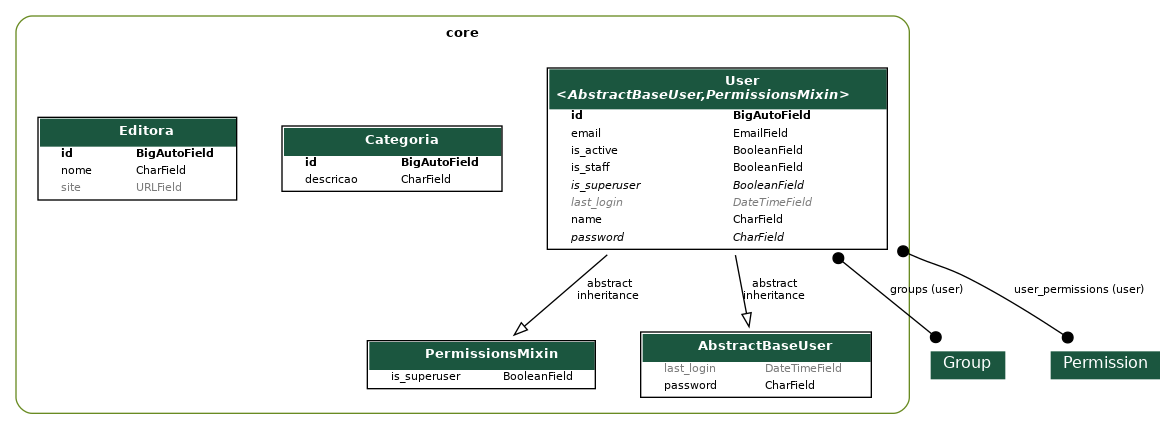
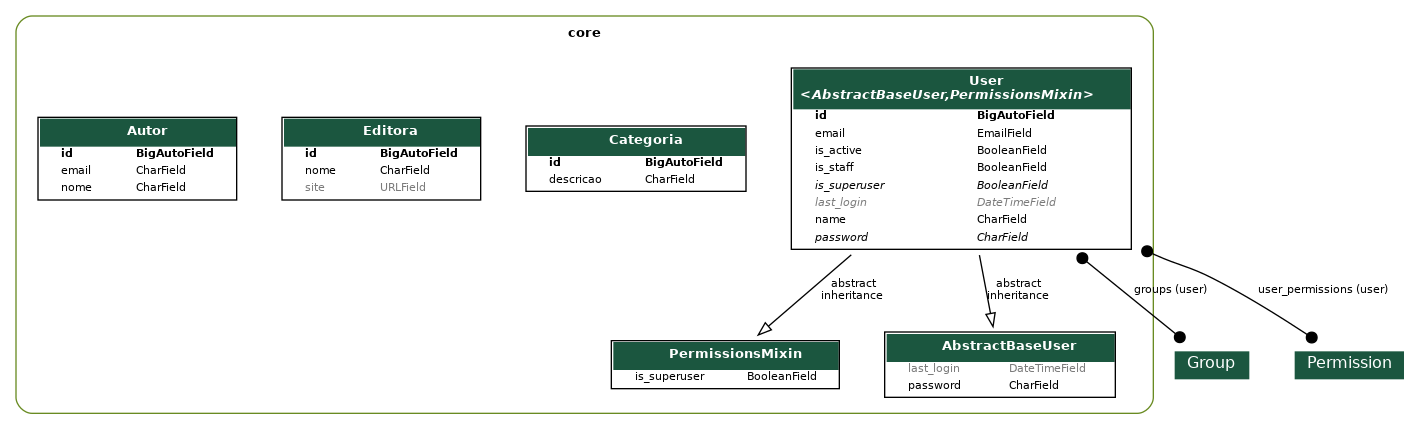
criação api do autor

diff --git a/app/urls.py b/app/urls.py
@@ -9,12 +9,14 @@ from drf_spectacular.views import (
 from rest_framework.routers import DefaultRouter
 from rest_framework_simplejwt.views import TokenObtainPairView, TokenRefreshView
 
-from core.views import CategoriaViewSet, EditoraViewSet, UserViewSet
+from core.views import CategoriaViewSet, EditoraViewSet, UserViewSet, AutorViewSet
 
 router = DefaultRouter()
 router.register(r"categorias", CategoriaViewSet, basename="categorias")
 router.register(r"editoras", EditoraViewSet, basename="users")
 router.register(r"usuarios", UserViewSet, basename="users")
+router.register(r"autor", AutorViewSet, basename="users")
+
 
 urlpatterns = [
     path("admin/", admin.site.urls),

diff --git a/core/migrations/0005_autor.py b/core/migrations/0005_autor.py
@@ -1,0 +1,21 @@
+# Generated by Django 5.0.2 on 2024-03-18 14:33
+
+from django.db import migrations, models
+
+
+class Migration(migrations.Migration):
+
+    dependencies = [
+        ("core", "0004_rename_url_editora_site"),
+    ]
+
+    operations = [
+        migrations.CreateModel(
+            name="Autor",
+            fields=[
+                ("id", models.BigAutoField(auto_created=True, primary_key=True, serialize=False, verbose_name="ID")),
+                ("nome", models.CharField(max_length=100)),
+                ("email", models.CharField(max_length=100)),
+            ],
+        ),
+    ]

diff --git a/core/views/autor.py b/core/views/autor.py
@@ -1,0 +1,9 @@
+from rest_framework.viewsets import ModelViewSet
+
+from core.models import Autor
+from core.serializers import AutorSerializer
+
+
+class AutorViewSet(ModelViewSet):
+    queryset = Autor.objects.all()
+    serializers_class = AutorSerializer

diff --git a/core/models/autor.py b/core/models/autor.py
@@ -1,0 +1,9 @@
+from django.db import models
+
+
+class Autor(models.Model):
+    nome = models.CharField(max_length=100)
+    email = models.CharField(max_length=100)
+
+    def __str__(self):
+        return f"{self.nome} ({self.id})"

diff --git a/core/serializers/autor.py b/core/serializers/autor.py
@@ -1,0 +1,9 @@
+from rest_framework.serializers import ModelSerializer
+
+from core.models import Autor
+
+
+class AutorSerializer(ModelSerializer):
+    class Meta:
+        model = Autor
+        fields = "__all__"

diff --git a/core/admin.py b/core/admin.py
@@ -52,3 +52,4 @@ class UserAdmin(BaseUserAdmin):
 admin.site.register(models.User, UserAdmin)
 admin.site.register(models.Categoria)
 admin.site.register(models.Editora)
+admin.site.register(models.Autor)

diff --git a/core/serializers/__init__.py b/core/serializers/__init__.py
@@ -3,3 +3,5 @@ from .user import UserSerializer
 from .categoria import CategoriaSerializer
 
 from .editora import EditoraSerializer
+
+from .autor import AutorSerializer

diff --git a/core/views/__init__.py b/core/views/__init__.py
@@ -1,3 +1,4 @@
 from .user import UserViewSet
 from .categoria import CategoriaViewSet
 from .editora import EditoraViewSet
+from .autor import AutorViewSet

diff --git a/core/models/__init__.py b/core/models/__init__.py
@@ -1,3 +1,4 @@
 from .user import User
 from .categoria import Categoria
 from .editora import Editora
+from .autor import Autor
